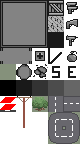
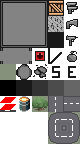
Add more obstacles + kickback only zombies

Changed region(s): [[0.2, 0.6667, 0.4, 0.8889], [0.6, 0.0, 0.8, 0.1111], [0.45, 0.3611, 0.55, 0.4167]]

diff --git a/left-4-dead/enemies.js b/left-4-dead/enemies.js
@@ -80,6 +80,8 @@ class Enemy extends Phaser.Physics.Arcade.Sprite {
 
   whenAttack() {}
 
+  whenIsHit(bullet) {}
+
   whenDie() {}
 
   update(time, delta) {
@@ -195,8 +197,8 @@ class Enemy extends Phaser.Physics.Arcade.Sprite {
   }
 
   isHit(bullet) {
+    this.whenIsHit(bullet);
     this.setTintFill(0xff0000);
-    this.kickback(bullet);
 
     if(!this.startsPursuit) {
       this.startPursuit()
@@ -208,12 +210,6 @@ class Enemy extends Phaser.Physics.Arcade.Sprite {
         this.die();
       }
     }
-  }
-
-  kickback(bullet) {
-    var kickbackVector = new Phaser.Math.Vector2(this.x - bullet.x, this.y - bullet.y);
-    this.x += kickbackVector.x/8;
-    this.y += kickbackVector.y/8;
   }
 
   die() {
@@ -262,6 +258,12 @@ class Zombie extends Enemy {
 
   whenDistantTarget(delta) {
     this.followPath(delta);
+  }
+
+  whenIsHit(bullet) {
+    var kickbackVector = new Phaser.Math.Vector2(this.x - bullet.x, this.y - bullet.y);
+    this.x += kickbackVector.x/10;
+    this.y += kickbackVector.y/10;
   }
 
   die() {

diff --git a/left-4-dead/game.js b/left-4-dead/game.js
@@ -437,7 +437,6 @@ class GameScene extends Phaser.Scene {
 
     this.sounds.music.play();
 
-
     this.level = new Level(this);
     this.myLights = new Lights(this);
     this.allies = new Allies(this);
